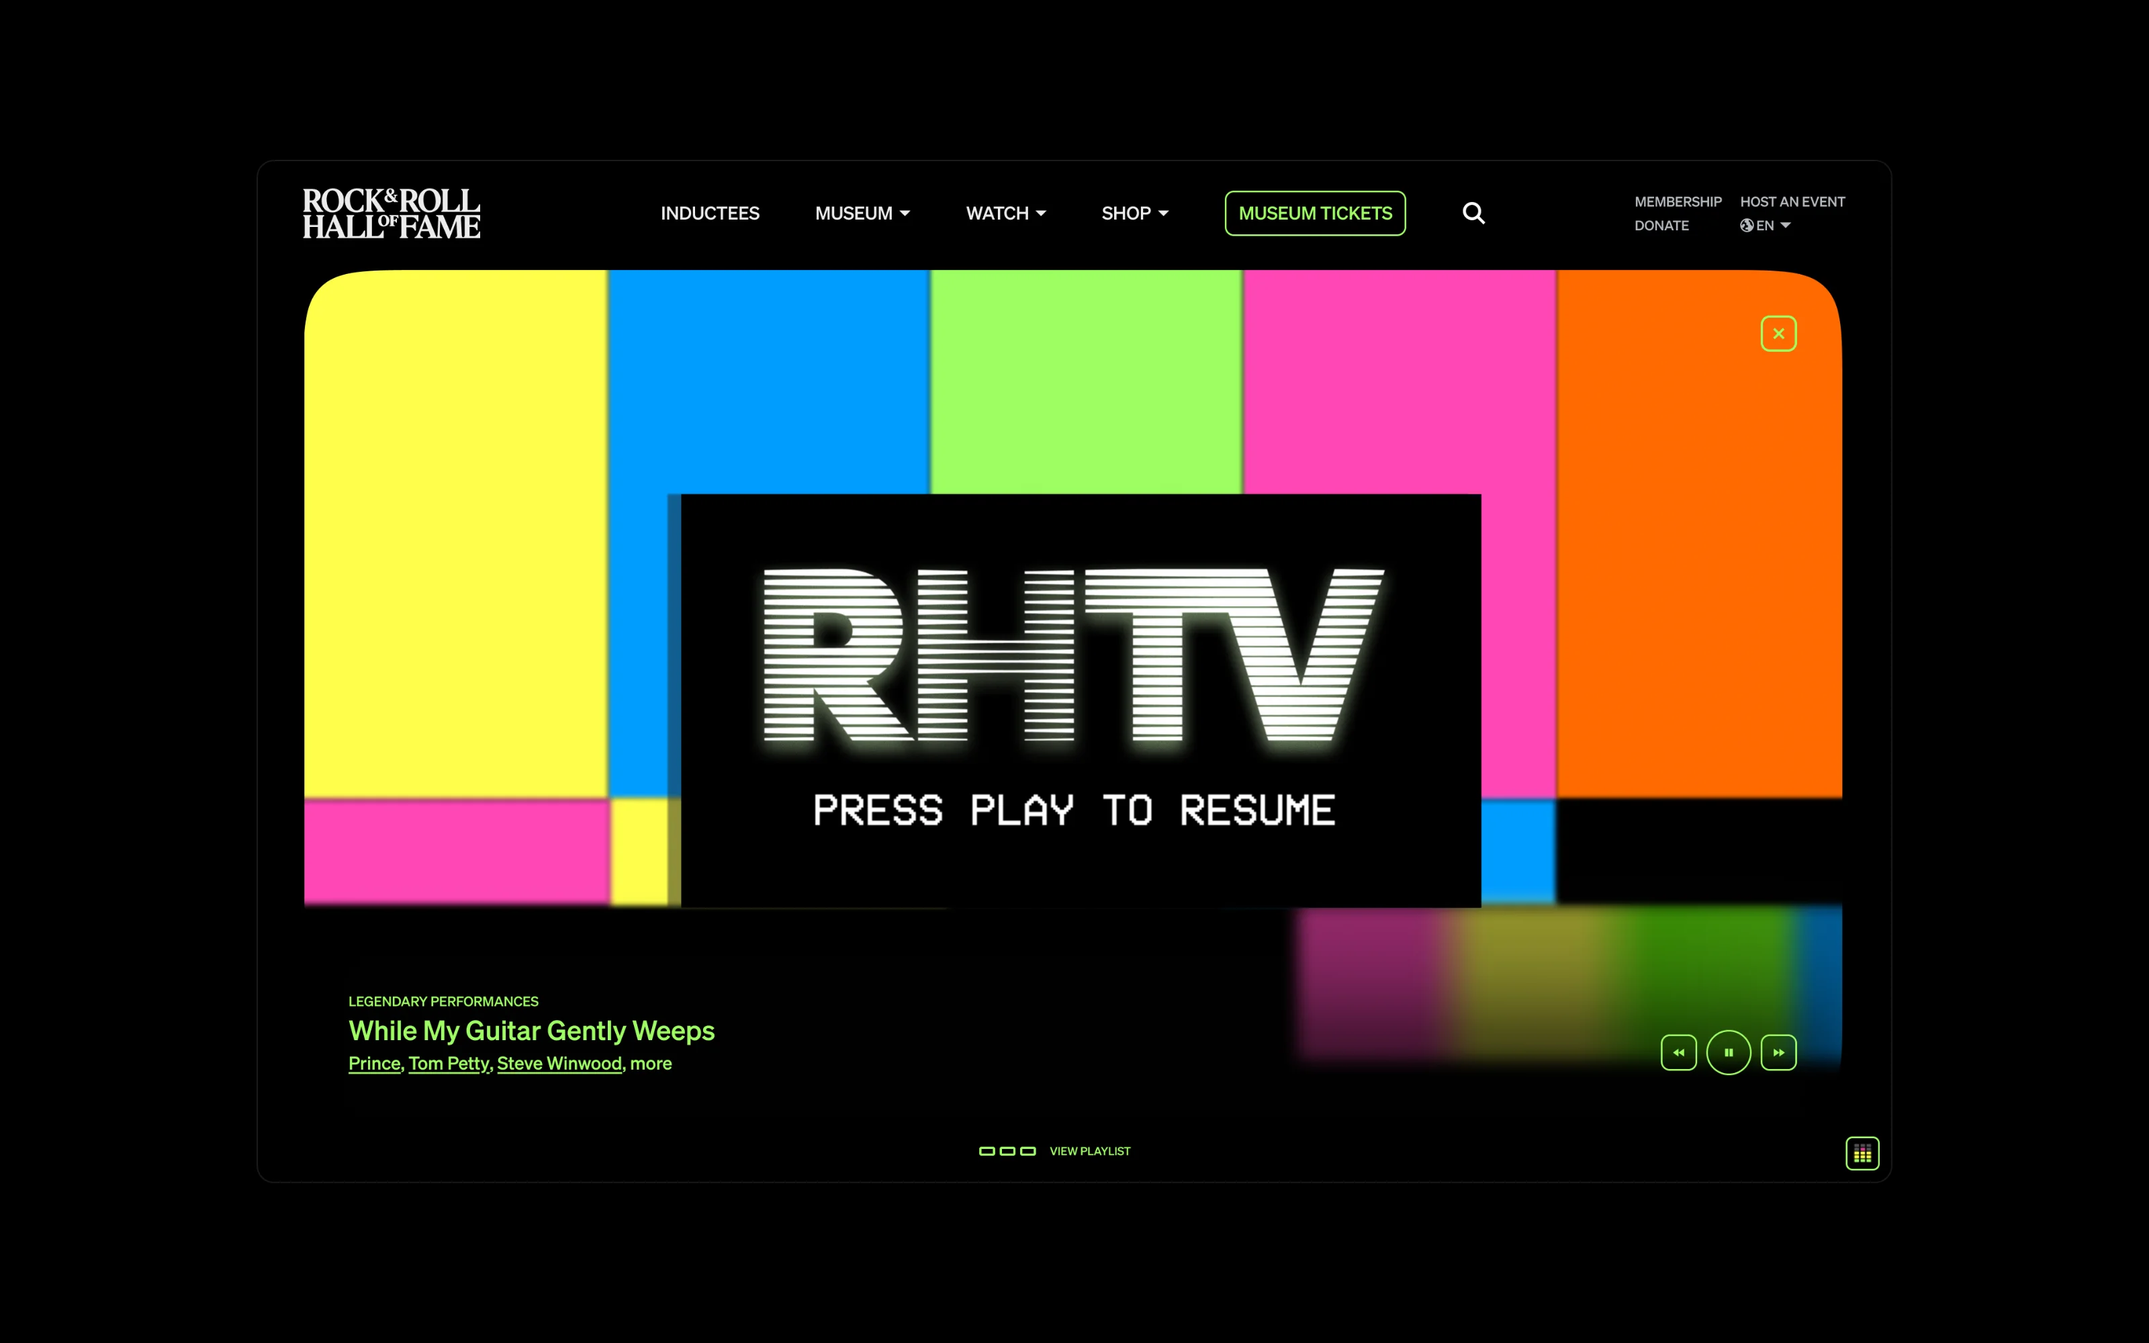
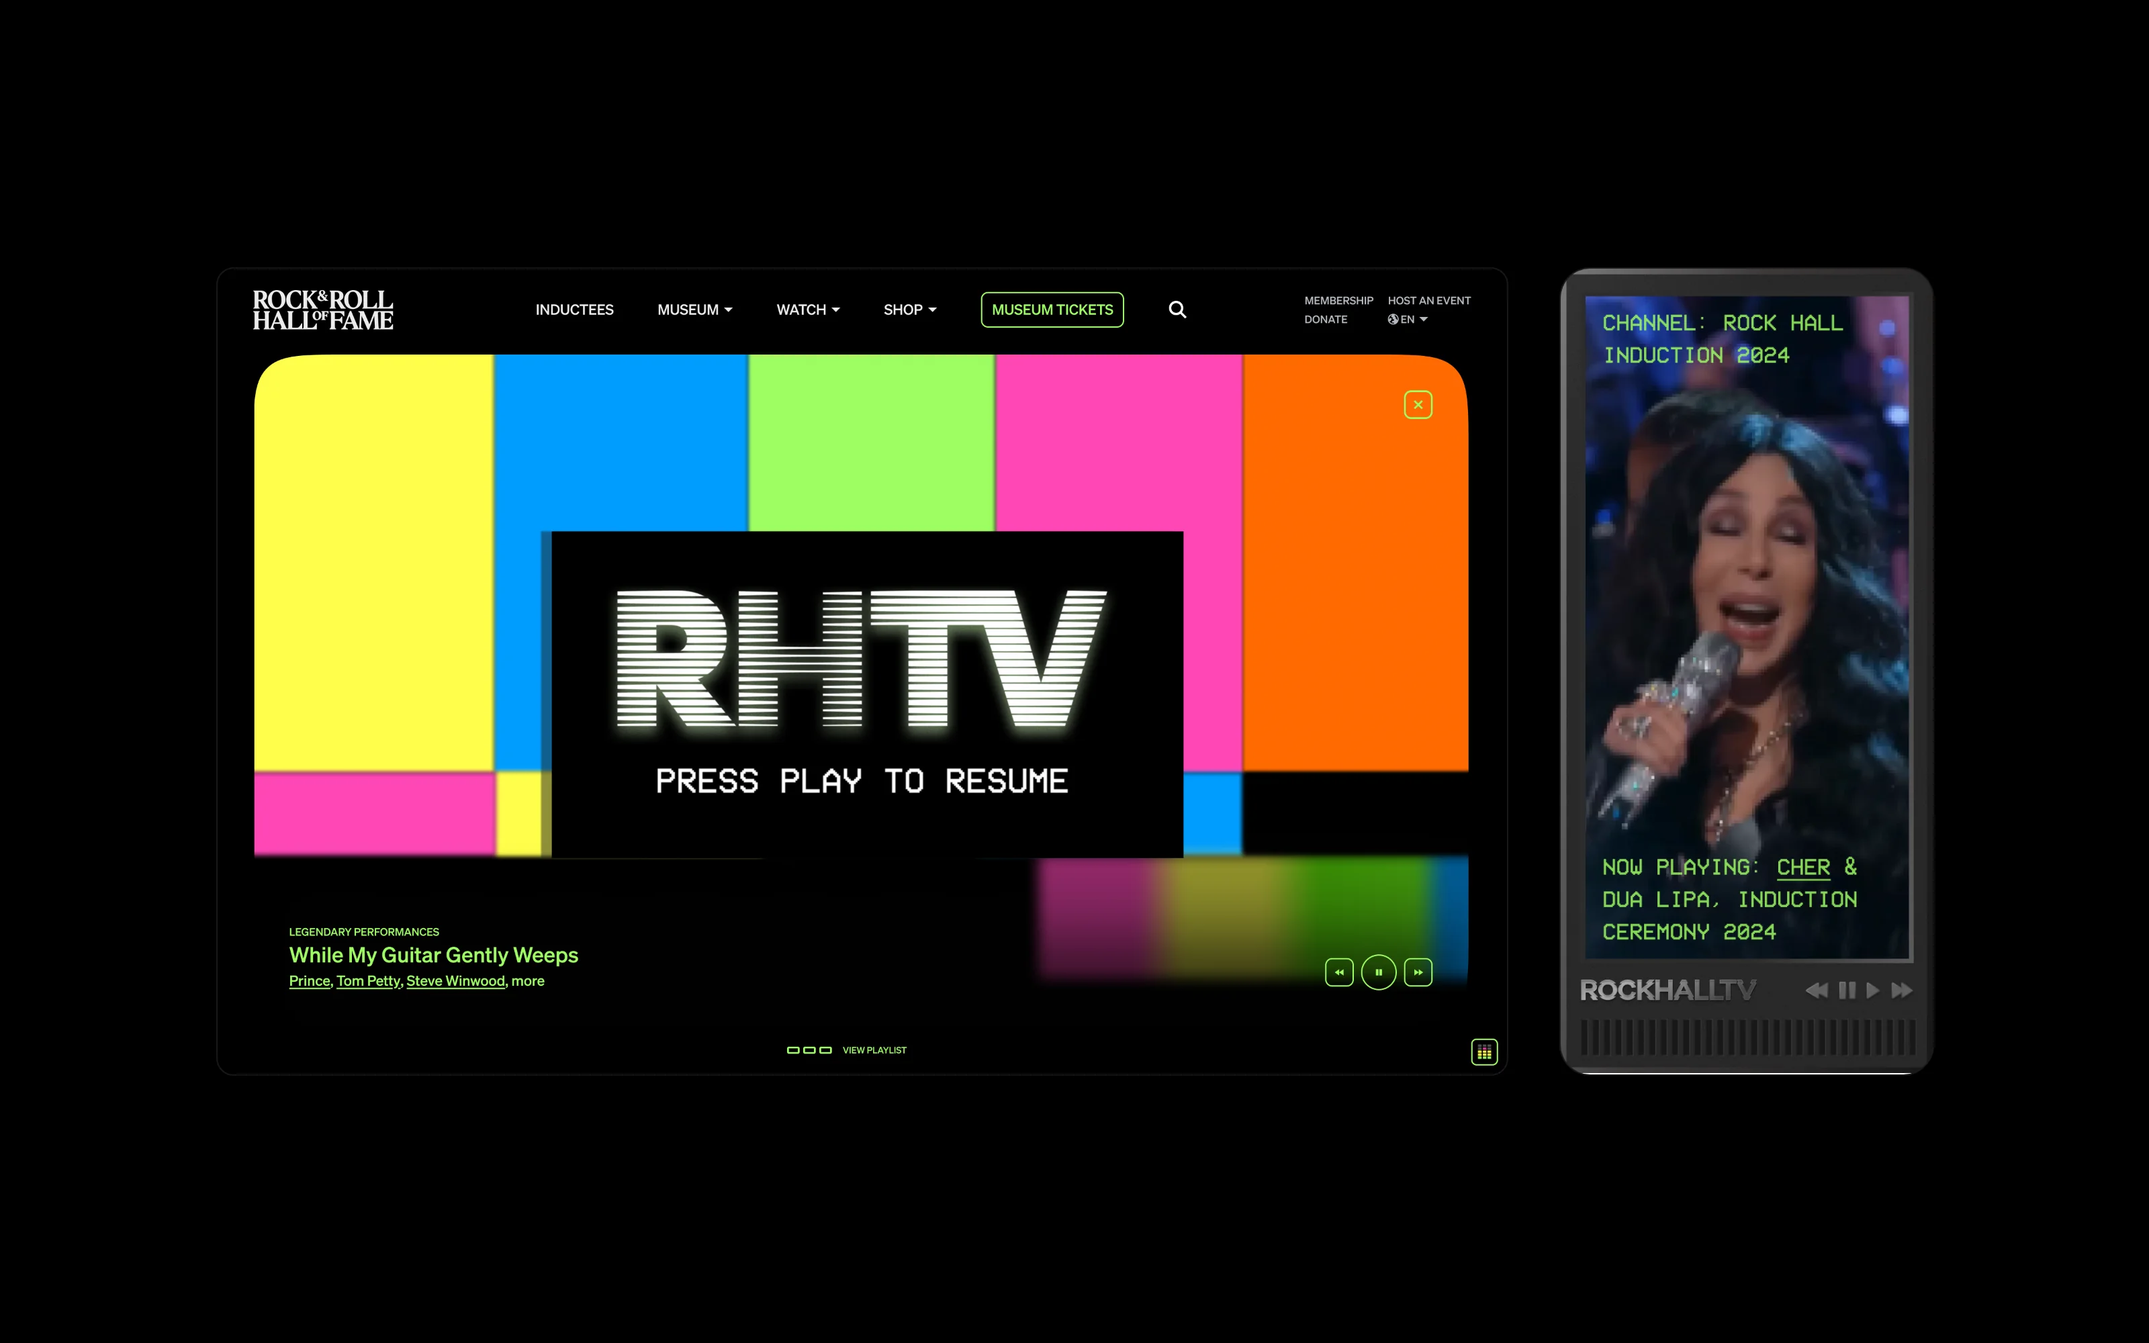
Dark earthy tiles; RockHallTV desktop + mobile pair
Claude-Session: https://claude.ai/code/session_012hvRRtN4bxtUwdtDAPfzb9

diff --git a/_src/index.html b/_src/index.html
@@ -106,7 +106,7 @@ nav.main a:hover{color:var(--hover)}
 
 /* Image placeholders */
 .ph{container-type:inline-size;position:relative;background:var(--tile);aspect-ratio:var(--ar,4/3);max-width:100%;overflow:hidden;width:100%}
-.ph::before{content:"";position:absolute;inset:0;background:var(--tint);opacity:.5}
+.ph::before{content:"";position:absolute;inset:0;background:var(--tint);opacity:.55}
 .ph .ph-l{position:absolute;left:12px;bottom:10px;color:var(--mute)}
 .ph .ph-n{position:absolute;right:12px;top:10px;color:var(--mute)}
 .ph .ph-mark{position:absolute;inset:0;display:grid;place-items:center;padding:0 8%;text-align:center;text-wrap:balance;line-height:.95;font-weight:500;letter-spacing:-.05em;font-size:clamp(14px,9.5cqi,80px);color:var(--ink);opacity:.9}
@@ -330,7 +330,7 @@ setMode(saved);
 document.querySelector(".modes").addEventListener("click",e=>{const b=e.target.closest("[data-set]"); if(b) setMode(b.dataset.set)});
 const IMG = {"m-bc-color":[3200,2000],"m-bc-comps":[3200,2000],"m-bc-cover":[3200,2000],"m-bc-gallery":[3200,2000],"m-bc-home":[3200,2000],"m-bc-pattern":[3200,2000],"m-bc-start":[3200,2000],"m-bc-type":[3200,2000],"m-dk-cover":[3200,2000],"m-dk-home":[3200,2000],"m-dk-pdp":[3200,2000],"m-dk-plp":[3200,2000],"m-dk-scrubs":[3200,2000],"m-dk-skate":[3200,2000],"m-dk-stories":[3200,2000],"m-dk-team":[3200,2000],"m-io-color":[3200,2000],"m-io-complete":[3200,2000],"m-io-cover":[3200,2000],"m-io-play":[3200,2000],"m-io-progress":[3200,2000],"m-io-reveal":[3200,2000],"m-io-share":[3200,2000],"m-io-sound":[3200,2000],"m-pga-cover":[3200,2000],"m-pga-hole":[3200,2000],"m-pga-live":[3200,2000],"m-pga-onboard":[3200,2000],"m-pga-stats":[3200,2000],"m-pga-story":[3200,2000],"m-rh-ceremony":[3200,2000],"m-rh-classes":[3200,2000],"m-rh-cover":[3200,2000],"m-rh-inductee":[3200,2000],"m-rh-museum":[3200,2000],"m-rh-tv":[3200,2000],"m-rh-visit":[3200,2000],"m-rh-vote":[3200,2000],"m-sw-act":[3200,2000],"m-sw-coll":[3200,2000],"m-sw-cover":[3200,2000],"m-sw-gear":[3200,2000],"m-sw-home":[3200,2000],"m-sw-plant":[3200,2000],"m-sw-prod":[3200,2000],"m-sw-v2":[3200,2000]};
 const P = [
-  {id:"google-io", n:"001", client:"Google I/O 2026", short:"Google I/O", disc:"Experiential / Motion", tint:"#4F6D96",
+  {id:"google-io", n:"001", client:"Google I/O 2026", short:"Google I/O", disc:"Experiential / Motion", tint:"#26344A",
     role:"Motion design &amp; art direction", platform:"Web · desktop &amp; mobile", cover:"m-io-cover",
     team:"With Left Field Labs and the Google I/O team",
     tagline:"Google could have just announced the date. Instead, we built a game the whole community had to play to unlock it.",
@@ -356,7 +356,7 @@ const P = [
       {media:[["m-io-share","You did it. Shareable badges for finishing every bundle","full"]]},
     ]},
 
-  {id:"pga-tour", n:"002", client:"PGA Tour", short:"PGA Tour", disc:"Mobile App", tint:"#2B3F5C",
+  {id:"pga-tour", n:"002", client:"PGA Tour", short:"PGA Tour", disc:"Mobile App", tint:"#1A2636",
     role:"UI lead", platform:"iOS &amp; Android", cover:"m-pga-cover",
     team:"With Shockoe and the PGA Tour brand and product teams",
     tagline:"Fans follow players, not tournaments. We rebuilt the PGA Tour app around that.",
@@ -381,7 +381,7 @@ const P = [
       {media:[["s-hk-vision-wall","Stories, recaps and player moments","full"]]},
     ]},
 
-  {id:"haskell", n:"003", client:"Haskell Design System", short:"PGA Tour · Haskell", disc:"Design System — PGA Tour", tint:"#A68A5B",
+  {id:"haskell", n:"003", client:"Haskell Design System", short:"PGA Tour · Haskell", disc:"Design System — PGA Tour", tint:"#4A3B24",
     role:"Design system &amp; product design", platform:"iOS · Android · Web · Figma", cover:"s-hk-moodboard",
     team:"With Shockoe and the PGA Tour digital, brand and engineering teams",
     tagline:"One design system for every screen the PGA Tour puts in front of fans.",
@@ -405,7 +405,7 @@ const P = [
       {media:[["s-hk-spec-color","Color specs, applied to a themed leaderboard","full"]]},
     ]},
 
-  {id:"rock-hall", n:"004", client:"Rock &amp; Roll Hall of Fame", short:"Rock Hall", disc:"Digital Experience", tint:"#8C2F2A",
+  {id:"rock-hall", n:"004", client:"Rock &amp; Roll Hall of Fame", short:"Rock Hall", disc:"Digital Experience", tint:"#4A1A17",
     role:"Art direction, UX &amp; UI", platform:"Responsive web", cover:"m-rh-cover",
     team:"With Grow and the Rock &amp; Roll Hall of Fame team",
     tagline:"The museum of the loudest art form on earth deserved a website that didn’t whisper.",
@@ -422,14 +422,14 @@ const P = [
       {media:[["m-rh-classes","Explore the Hall of Fame by class","full"]]},
       {k:"(RockHallTV)", h:"Legendary performances, on demand.",
        p:["Every inductee gets a page that opens with their name set huge over archival photography, browsable by class or A to Z. RockHallTV takes it further: a channel of legendary performances, interviews and iconic moments, wrapped in the same loud visual language."]},
-      {media:[["m-rh-tv","RockHallTV, legendary performances on demand","full"]]},
+      {media:[["m-rh-tv","RockHallTV, desktop and mobile","full"]]},
       {k:"(The Museum)", h:"From the screen to Cleveland.",
        p:["The same system carries the museum side: exhibits, hours and tickets. Every page points back to a visit, and a shared set of components means the Rock Hall team can keep publishing without a designer rebuilding each page."]},
       {media:[["m-rh-museum","The Museum","full"]]},
       {media:[["m-rh-visit","Plan your visit","full"]]},
     ]},
 
-  {id:"dickies", n:"005", client:"Dickies", short:"Dickies", disc:"E-Commerce Redesign", tint:"#7C6A4A",
+  {id:"dickies", n:"005", client:"Dickies", short:"Dickies", disc:"E-Commerce Redesign", tint:"#3F3424",
     role:"UI &amp; visual design lead", platform:"Shopify · ReCharge", cover:"m-dk-cover",
     team:"With VF Corporation, the Dickies brand team and partner agencies",
     tagline:"A storefront for people who actually wear the clothes to work.",
@@ -455,7 +455,7 @@ const P = [
       {media:[["m-dk-team","Skate team member, Christian Henry","full"]]},
     ]},
 
-  {id:"dickies-brand", n:"006", client:"Dickies Brand Guidelines", short:"Dickies Brand", disc:"Brand Guidelines", tint:"#5F6340",
+  {id:"dickies-brand", n:"006", client:"Dickies Brand Guidelines", short:"Dickies Brand", disc:"Brand Guidelines", tint:"#33361F",
     role:"Brand &amp; visual design", platform:"Brand guidelines site · Retail · Digital", cover:"s-dbc-type-big",
     team:"With VF Corporation and the Dickies brand team",
     tagline:"A brand guide built like the clothes: tough, practical and impossible to misread.",
@@ -478,7 +478,7 @@ const P = [
       {media:[["s-dbc-photo","Photography: Make Us Feel","full"]]},
     ]},
 
-  {id:"canvas", n:"007", client:"Canvas Design System", short:"VF Corp · Canvas", disc:"Design System — VF Corporation", tint:"#5A6278",
+  {id:"canvas", n:"007", client:"Canvas Design System", short:"VF Corp · Canvas", disc:"Design System — VF Corporation", tint:"#2E3342",
     role:"Design system designer", platform:"Figma · Open source", cover:"s-cvg-bento",
     team:"With the VF Corporation digital and design system teams",
     tagline:"One system, built from scratch in Figma, that every VF brand can make its own.",
@@ -504,7 +504,7 @@ const P = [
       {media:[["s-cv-icons","The squared icon set","full"]]},
     ]},
 
-  {id:"smartwool", n:"008", client:"Smartwool", short:"Smartwool", disc:"Site Architecture / UX", tint:"#3F6B5A",
+  {id:"smartwool", n:"008", client:"Smartwool", short:"Smartwool", disc:"Site Architecture / UX", tint:"#1F3329",
     role:"UX &amp; visual design", platform:"Responsive web", cover:"m-sw-cover",
     team:"With VF Corporation and the Smartwool digital and brand teams",
     tagline:"A homepage that helps you find your gear as easily as the brand says “Go far. Feel good.”",
@@ -527,7 +527,7 @@ const P = [
       {media:[["m-sw-coll","Shop collections","full"]]},
     ]},
 
-  {id:"beacon", n:"009", client:"Beacon Design System®", short:"Morgan Stanley", disc:"Design System — Morgan Stanley", tint:"#6A5C82",
+  {id:"beacon", n:"009", client:"Beacon Design System®", short:"Morgan Stanley", disc:"Design System — Morgan Stanley", tint:"#332C40",
     role:"Design system designer", platform:"Web docs · Figma &amp; Sketch kits", cover:"m-bc-cover",
     team:"With Morgan Stanley’s design system team",
     tagline:"A design system as supportive as the components themselves.",

diff --git a/index.html b/index.html
@@ -135,7 +135,7 @@ nav.main a:hover{color:var(--hover)}
 
 /* Image placeholders */
 .ph{container-type:inline-size;position:relative;background:var(--tile);aspect-ratio:var(--ar,4/3);max-width:100%;overflow:hidden;width:100%}
-.ph::before{content:"";position:absolute;inset:0;background:var(--tint);opacity:.5}
+.ph::before{content:"";position:absolute;inset:0;background:var(--tint);opacity:.55}
 .ph .ph-l{position:absolute;left:12px;bottom:10px;color:var(--mute)}
 .ph .ph-n{position:absolute;right:12px;top:10px;color:var(--mute)}
 .ph .ph-mark{position:absolute;inset:0;display:grid;place-items:center;padding:0 8%;text-align:center;text-wrap:balance;line-height:.95;font-weight:500;letter-spacing:-.05em;font-size:clamp(14px,9.5cqi,80px);color:var(--ink);opacity:.9}
@@ -362,7 +362,7 @@ setMode(saved);
 document.querySelector(".modes").addEventListener("click",e=>{const b=e.target.closest("[data-set]"); if(b) setMode(b.dataset.set)});
 const IMG = {"m-bc-color":[3200,2000],"m-bc-comps":[3200,2000],"m-bc-cover":[3200,2000],"m-bc-gallery":[3200,2000],"m-bc-home":[3200,2000],"m-bc-pattern":[3200,2000],"m-bc-start":[3200,2000],"m-bc-type":[3200,2000],"m-dk-cover":[3200,2000],"m-dk-home":[3200,2000],"m-dk-pdp":[3200,2000],"m-dk-plp":[3200,2000],"m-dk-scrubs":[3200,2000],"m-dk-skate":[3200,2000],"m-dk-stories":[3200,2000],"m-dk-team":[3200,2000],"m-io-color":[3200,2000],"m-io-complete":[3200,2000],"m-io-cover":[3200,2000],"m-io-play":[3200,2000],"m-io-progress":[3200,2000],"m-io-reveal":[3200,2000],"m-io-share":[3200,2000],"m-io-sound":[3200,2000],"m-pga-cover":[3200,2000],"m-pga-hole":[3200,2000],"m-pga-live":[3200,2000],"m-pga-onboard":[3200,2000],"m-pga-stats":[3200,2000],"m-pga-story":[3200,2000],"m-rh-ceremony":[3200,2000],"m-rh-classes":[3200,2000],"m-rh-cover":[3200,2000],"m-rh-inductee":[3200,2000],"m-rh-museum":[3200,2000],"m-rh-tv":[3200,2000],"m-rh-visit":[3200,2000],"m-rh-vote":[3200,2000],"m-sw-act":[3200,2000],"m-sw-coll":[3200,2000],"m-sw-cover":[3200,2000],"m-sw-gear":[3200,2000],"m-sw-home":[3200,2000],"m-sw-plant":[3200,2000],"m-sw-prod":[3200,2000],"m-sw-v2":[3200,2000]};
 const P = [
-  {id:"google-io", n:"001", client:"Google I/O 2026", short:"Google I/O", disc:"Experiential / Motion", tint:"#4F6D96",
+  {id:"google-io", n:"001", client:"Google I/O 2026", short:"Google I/O", disc:"Experiential / Motion", tint:"#26344A",
     role:"Motion design &amp; art direction", platform:"Web · desktop &amp; mobile", cover:"m-io-cover",
     team:"With Left Field Labs and the Google I/O team",
     tagline:"Google could have just announced the date. Instead, we built a game the whole community had to play to unlock it.",
@@ -388,7 +388,7 @@ const P = [
       {media:[["m-io-share","You did it. Shareable badges for finishing every bundle","full"]]},
     ]},
 
-  {id:"pga-tour", n:"002", client:"PGA Tour", short:"PGA Tour", disc:"Mobile App", tint:"#2B3F5C",
+  {id:"pga-tour", n:"002", client:"PGA Tour", short:"PGA Tour", disc:"Mobile App", tint:"#1A2636",
     role:"UI lead", platform:"iOS &amp; Android", cover:"m-pga-cover",
     team:"With Shockoe and the PGA Tour brand and product teams",
     tagline:"Fans follow players, not tournaments. We rebuilt the PGA Tour app around that.",
@@ -413,7 +413,7 @@ const P = [
       {media:[["s-hk-vision-wall","Stories, recaps and player moments","full"]]},
     ]},
 
-  {id:"haskell", n:"003", client:"Haskell Design System", short:"PGA Tour · Haskell", disc:"Design System — PGA Tour", tint:"#A68A5B",
+  {id:"haskell", n:"003", client:"Haskell Design System", short:"PGA Tour · Haskell", disc:"Design System — PGA Tour", tint:"#4A3B24",
     role:"Design system &amp; product design", platform:"iOS · Android · Web · Figma", cover:"s-hk-moodboard",
     team:"With Shockoe and the PGA Tour digital, brand and engineering teams",
     tagline:"One design system for every screen the PGA Tour puts in front of fans.",
@@ -437,7 +437,7 @@ const P = [
       {media:[["s-hk-spec-color","Color specs, applied to a themed leaderboard","full"]]},
     ]},
 
-  {id:"rock-hall", n:"004", client:"Rock &amp; Roll Hall of Fame", short:"Rock Hall", disc:"Digital Experience", tint:"#8C2F2A",
+  {id:"rock-hall", n:"004", client:"Rock &amp; Roll Hall of Fame", short:"Rock Hall", disc:"Digital Experience", tint:"#4A1A17",
     role:"Art direction, UX &amp; UI", platform:"Responsive web", cover:"m-rh-cover",
     team:"With Grow and the Rock &amp; Roll Hall of Fame team",
     tagline:"The museum of the loudest art form on earth deserved a website that didn’t whisper.",
@@ -454,14 +454,14 @@ const P = [
       {media:[["m-rh-classes","Explore the Hall of Fame by class","full"]]},
       {k:"(RockHallTV)", h:"Legendary performances, on demand.",
        p:["Every inductee gets a page that opens with their name set huge over archival photography, browsable by class or A to Z. RockHallTV takes it further: a channel of legendary performances, interviews and iconic moments, wrapped in the same loud visual language."]},
-      {media:[["m-rh-tv","RockHallTV, legendary performances on demand","full"]]},
+      {media:[["m-rh-tv","RockHallTV, desktop and mobile","full"]]},
       {k:"(The Museum)", h:"From the screen to Cleveland.",
        p:["The same system carries the museum side: exhibits, hours and tickets. Every page points back to a visit, and a shared set of components means the Rock Hall team can keep publishing without a designer rebuilding each page."]},
       {media:[["m-rh-museum","The Museum","full"]]},
       {media:[["m-rh-visit","Plan your visit","full"]]},
     ]},
 
-  {id:"dickies", n:"005", client:"Dickies", short:"Dickies", disc:"E-Commerce Redesign", tint:"#7C6A4A",
+  {id:"dickies", n:"005", client:"Dickies", short:"Dickies", disc:"E-Commerce Redesign", tint:"#3F3424",
     role:"UI &amp; visual design lead", platform:"Shopify · ReCharge", cover:"m-dk-cover",
     team:"With VF Corporation, the Dickies brand team and partner agencies",
     tagline:"A storefront for people who actually wear the clothes to work.",
@@ -487,7 +487,7 @@ const P = [
       {media:[["m-dk-team","Skate team member, Christian Henry","full"]]},
     ]},
 
-  {id:"dickies-brand", n:"006", client:"Dickies Brand Guidelines", short:"Dickies Brand", disc:"Brand Guidelines", tint:"#5F6340",
+  {id:"dickies-brand", n:"006", client:"Dickies Brand Guidelines", short:"Dickies Brand", disc:"Brand Guidelines", tint:"#33361F",
     role:"Brand &amp; visual design", platform:"Brand guidelines site · Retail · Digital", cover:"s-dbc-type-big",
     team:"With VF Corporation and the Dickies brand team",
     tagline:"A brand guide built like the clothes: tough, practical and impossible to misread.",
@@ -510,7 +510,7 @@ const P = [
       {media:[["s-dbc-photo","Photography: Make Us Feel","full"]]},
     ]},
 
-  {id:"canvas", n:"007", client:"Canvas Design System", short:"VF Corp · Canvas", disc:"Design System — VF Corporation", tint:"#5A6278",
+  {id:"canvas", n:"007", client:"Canvas Design System", short:"VF Corp · Canvas", disc:"Design System — VF Corporation", tint:"#2E3342",
     role:"Design system designer", platform:"Figma · Open source", cover:"s-cvg-bento",
     team:"With the VF Corporation digital and design system teams",
     tagline:"One system, built from scratch in Figma, that every VF brand can make its own.",
@@ -536,7 +536,7 @@ const P = [
       {media:[["s-cv-icons","The squared icon set","full"]]},
     ]},
 
-  {id:"smartwool", n:"008", client:"Smartwool", short:"Smartwool", disc:"Site Architecture / UX", tint:"#3F6B5A",
+  {id:"smartwool", n:"008", client:"Smartwool", short:"Smartwool", disc:"Site Architecture / UX", tint:"#1F3329",
     role:"UX &amp; visual design", platform:"Responsive web", cover:"m-sw-cover",
     team:"With VF Corporation and the Smartwool digital and brand teams",
     tagline:"A homepage that helps you find your gear as easily as the brand says “Go far. Feel good.”",
@@ -559,7 +559,7 @@ const P = [
       {media:[["m-sw-coll","Shop collections","full"]]},
     ]},
 
-  {id:"beacon", n:"009", client:"Beacon Design System®", short:"Morgan Stanley", disc:"Design System — Morgan Stanley", tint:"#6A5C82",
+  {id:"beacon", n:"009", client:"Beacon Design System®", short:"Morgan Stanley", disc:"Design System — Morgan Stanley", tint:"#332C40",
     role:"Design system designer", platform:"Web docs · Figma &amp; Sketch kits", cover:"m-bc-cover",
     team:"With Morgan Stanley’s design system team",
     tagline:"A design system as supportive as the components themselves.",
